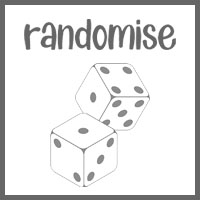
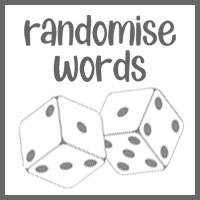
Added Maori translation to PractiseSelectionScene

Changed region(s): [[0.09, 0.06, 0.93, 0.96], [0.12, 0.57, 0.15, 0.6]]

diff --git a/SpellingWiz/src/application/PractiseSelection.java b/SpellingWiz/src/application/PractiseSelection.java
@@ -18,6 +18,7 @@ public class PractiseSelection {
 	private Stage stage;
 	private Scene scene;
 	private Parent root;
+	String langExt = SceneController.langExt;
 
 	@FXML
 	private ImageView randomBtn;
@@ -25,12 +26,15 @@ public class PractiseSelection {
 	private ImageView selectBtn;
 	@FXML
 	private ImageView arrowBtn;
+	@FXML
+	private ImageView practisePrompt;
 	
 	public static boolean randomSelected = false;
 	
 	public void setUpLang(MouseEvent event) throws MalformedURLException {
-		//to be added to when translation buttons made
-		
+		exitRandom(event);
+		exitSelect(event);
+		practisePrompt.setImage(new Image("./practisePrompt"+langExt+".jpg"));
 	}
 
 	public void chooseRandom(MouseEvent event) {
@@ -90,21 +94,21 @@ public class PractiseSelection {
 
 	//random
 	public void enterRandom(MouseEvent event) throws MalformedURLException { 
-		randomBtn.setImage(new Image("./randomise.jpg"));
+		randomBtn.setImage(new Image("./randomise"+langExt+".jpg"));
 		Sound.playSound("./switch.wav");
 	}
 
 	public void exitRandom(MouseEvent event) { 
-		randomBtn.setImage(new Image("./randomisefade.jpg"));
+		randomBtn.setImage(new Image("./randomisefade"+langExt+".jpg"));
 	}
 	//select
 	public void enterSelect(MouseEvent event) throws MalformedURLException { 
-		selectBtn.setImage(new Image("./select.jpg"));
+		selectBtn.setImage(new Image("./select"+langExt+".jpg"));
 		Sound.playSound("./switch.wav");
 	}
 
 	public void exitSelect(MouseEvent event) { 
-		selectBtn.setImage(new Image("./selectfade.jpg"));
+		selectBtn.setImage(new Image("./selectfade"+langExt+".jpg"));
 	}
 
 	//arrow
